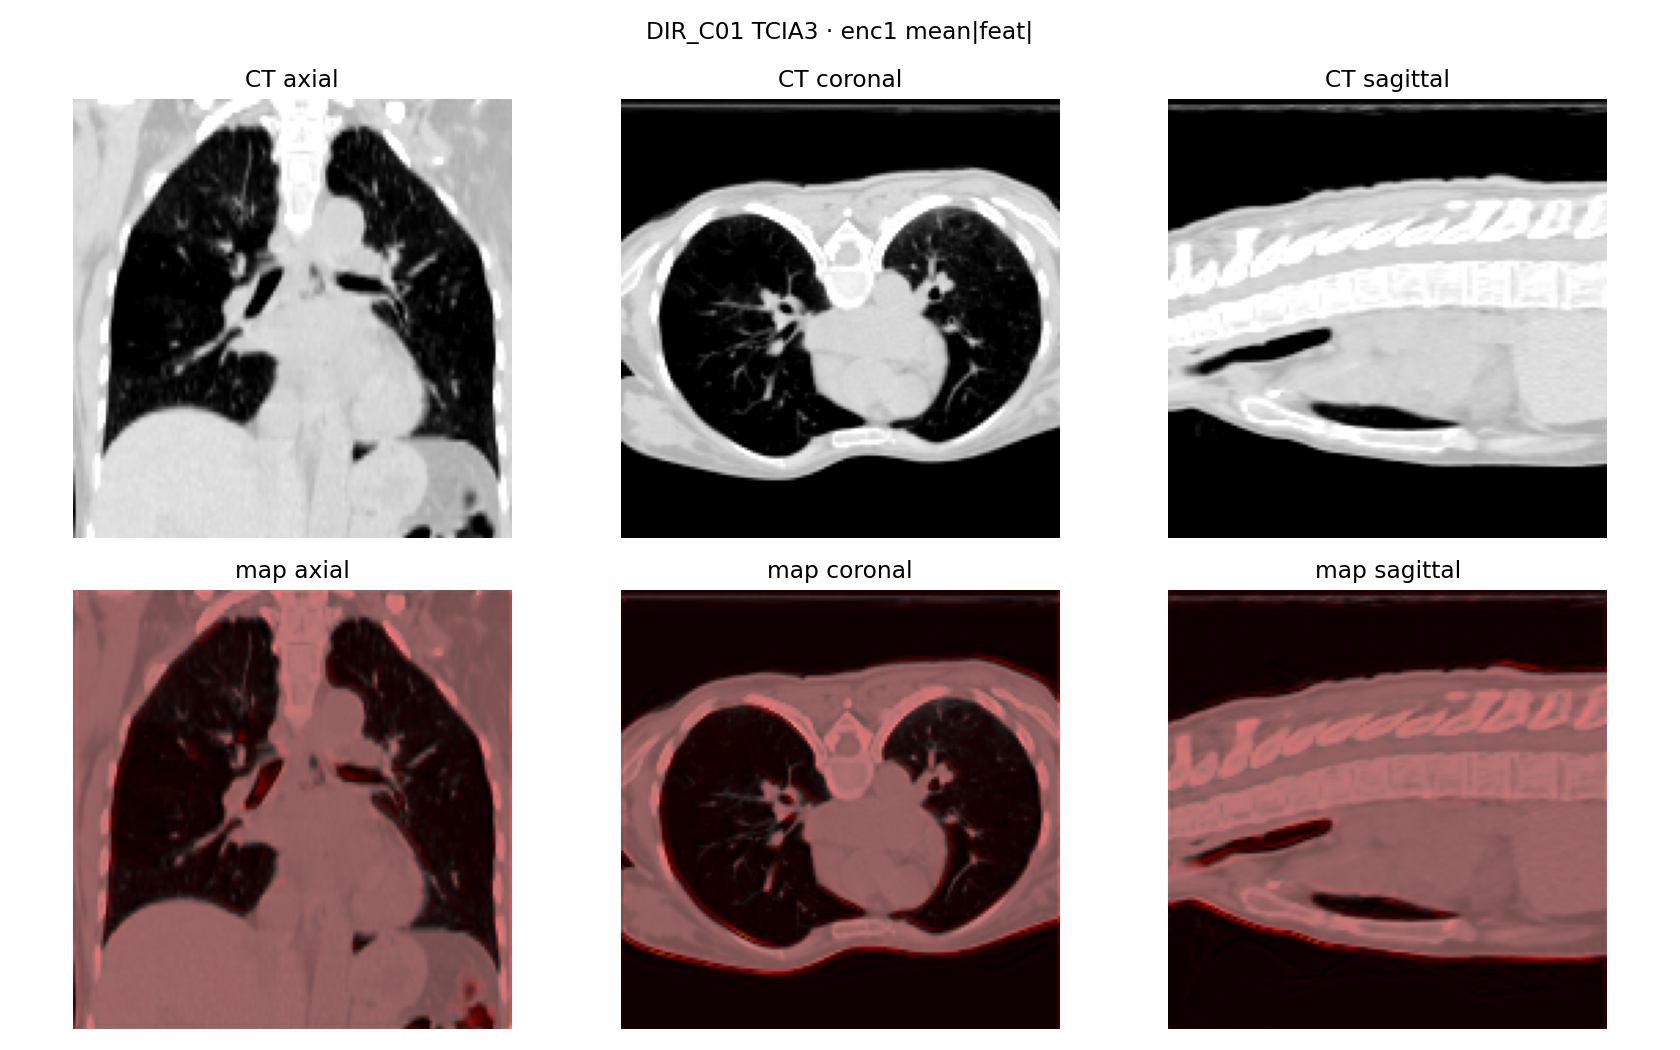
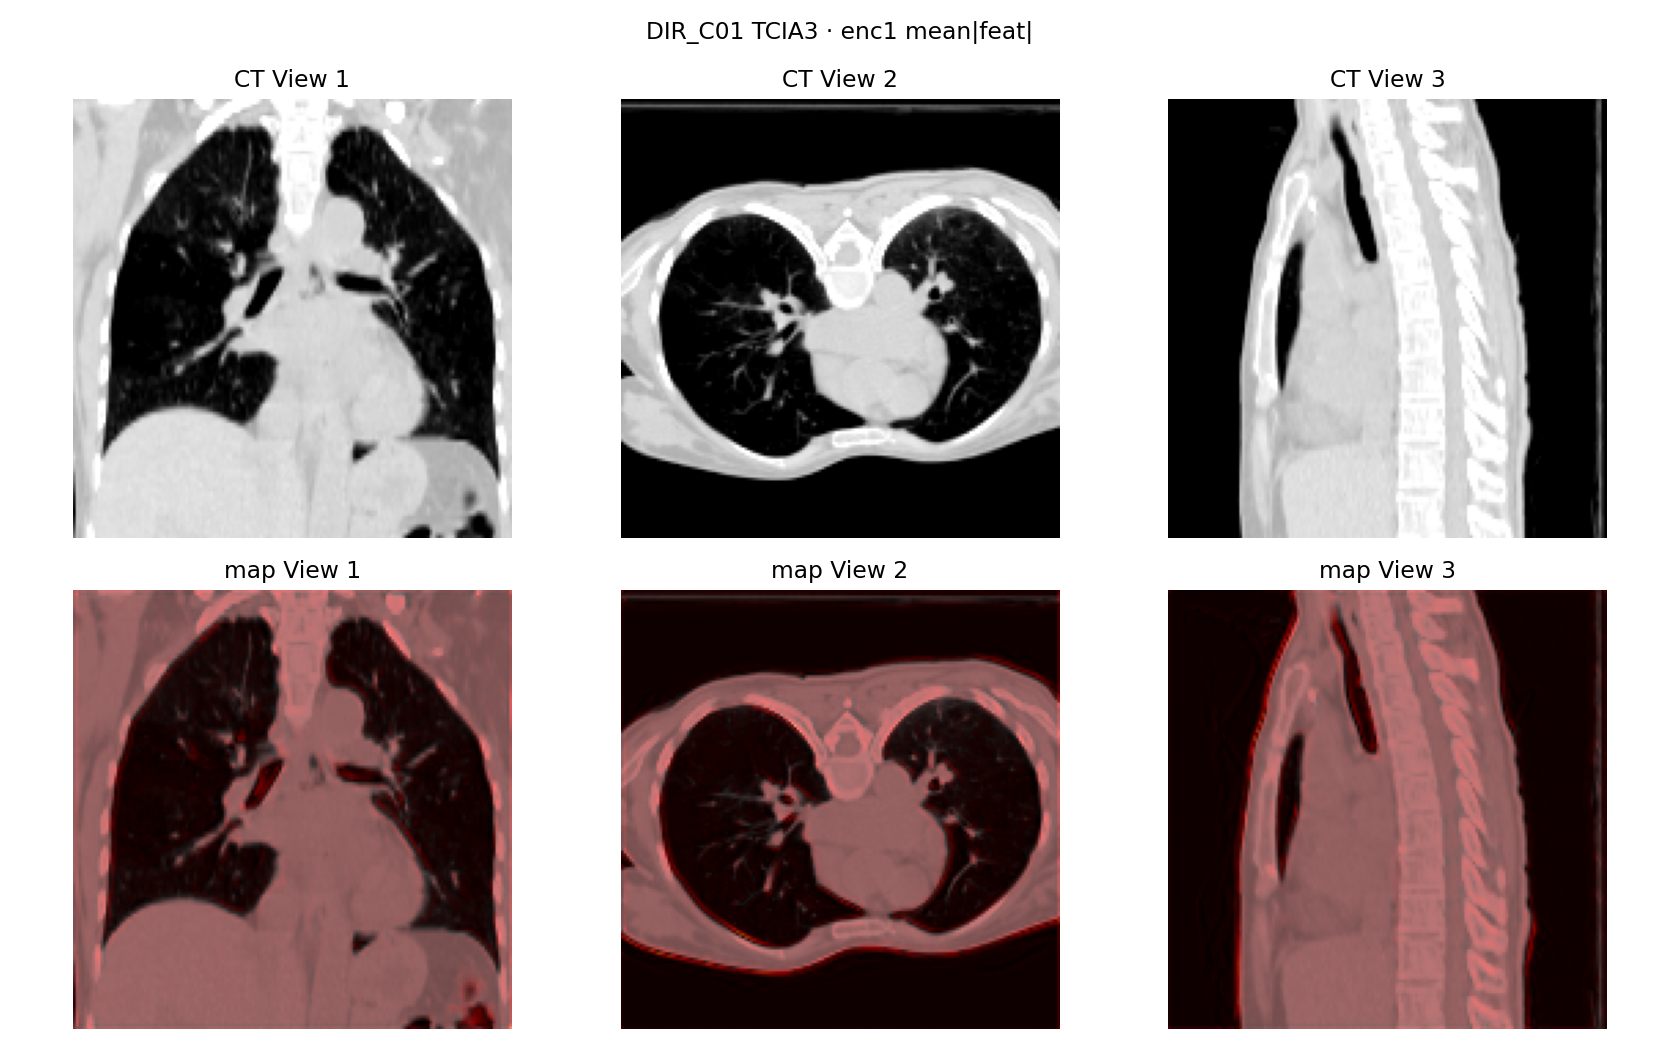
Turn the side slice upright and label the Grad-CAM columns View 1–3.

diff --git a/PopulationStudy/ClinicalExperiments/Grid160/TCIA3/scripts/viz_synth_activations.py b/PopulationStudy/ClinicalExperiments/Grid160/TCIA3/scripts/viz_synth_activations.py
@@ -54,12 +54,17 @@ def load_decoder(ckpt: Path, device: torch.device):
     return g
 
 
+VIEWS = ("View 1", "View 2", "View 3")
+
+
 def mid_slices(vol: np.ndarray):
     z, y, x = vol.shape
+    # View 3 is the side slice, turned 90° clockwise so the patient is upright.
+    side = np.rot90(vol[:, :, x // 2], k=-1)
     return {
-        "axial": vol[z // 2],
-        "coronal": vol[:, y // 2, :],
-        "sagittal": vol[:, :, x // 2],
+        "View 1": vol[z // 2],
+        "View 2": vol[:, y // 2, :],
+        "View 3": side,
     }
 
 
@@ -77,7 +82,7 @@ def overlay_panel(ct: np.ndarray, heat: np.ndarray, title: str, path: Path) -> N
     ct_views = mid_slices(ct)
     h_views = mid_slices(h)
     fig, axes = plt.subplots(2, 3, figsize=(12, 7.5))
-    for i, name in enumerate(("axial", "coronal", "sagittal")):
+    for i, name in enumerate(VIEWS):
         axes[0, i].imshow(ct_views[name], cmap="gray", vmin=-800, vmax=200)
         axes[0, i].set_title(f"CT {name}")
         axes[0, i].axis("off")
@@ -102,7 +107,7 @@ def gradcam_trio(ct: np.ndarray, maps: dict[str, np.ndarray], title: str, path: 
     missing = [key for _lab, key in layers if key not in maps]
     if missing:
         raise RuntimeError(f"missing Grad-CAM maps: {missing}")
-    planes = ("axial", "coronal", "sagittal")
+    planes = VIEWS
     ct_views = mid_slices(ct)
     heats = {key: mid_slices(heat_on_ct(ct, maps[key])) for _lab, key in layers}
     fig, axes = plt.subplots(4, 3, figsize=(12, 14))

diff --git a/PopulationStudy/ClinicalExperiments/Grid160/TCIA3/DecoderCRB/plots/activations/README.md b/PopulationStudy/ClinicalExperiments/Grid160/TCIA3/DecoderCRB/plots/activations/README.md
@@ -2,7 +2,7 @@
 
 Decoder checkpoint: `DecoderCRB/checkpoints/epoch_100.pt` (A3 TCIA3, MAE).
 
-Input is the real DIR phase-06 CT. The network predicts the motion from phase 06 to phase 01. Hotter colour means a higher value. Each picture shows three mid-slices of the 160³ volume: axial, coronal, and sagittal. The top row is the CT. The bottom row is the map drawn on that CT.
+Input is the real DIR phase-06 CT. The network predicts the motion from phase 06 to phase 01. Hotter colour means a higher value. Each picture shows three mid-slices of the 160³ volume, labeled View 1, View 2, and View 3. View 2 is the axial slice. View 3 is the sagittal slice, turned 90° clockwise. The top row is the CT. The bottom row is the map drawn on that CT.
 
 ## Files in each case folder
 
